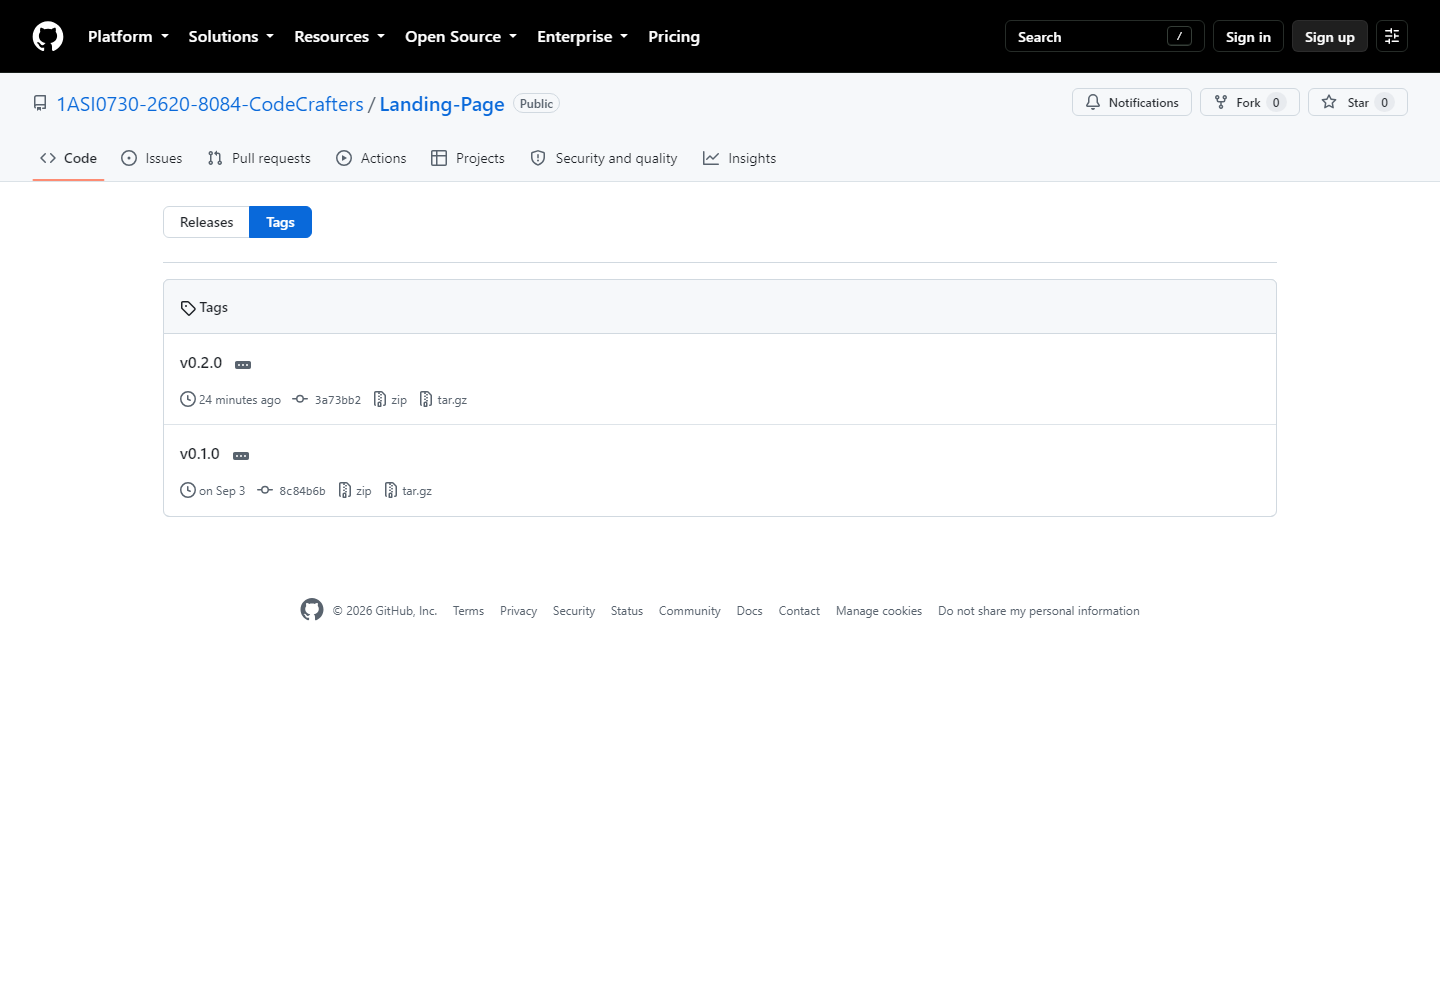
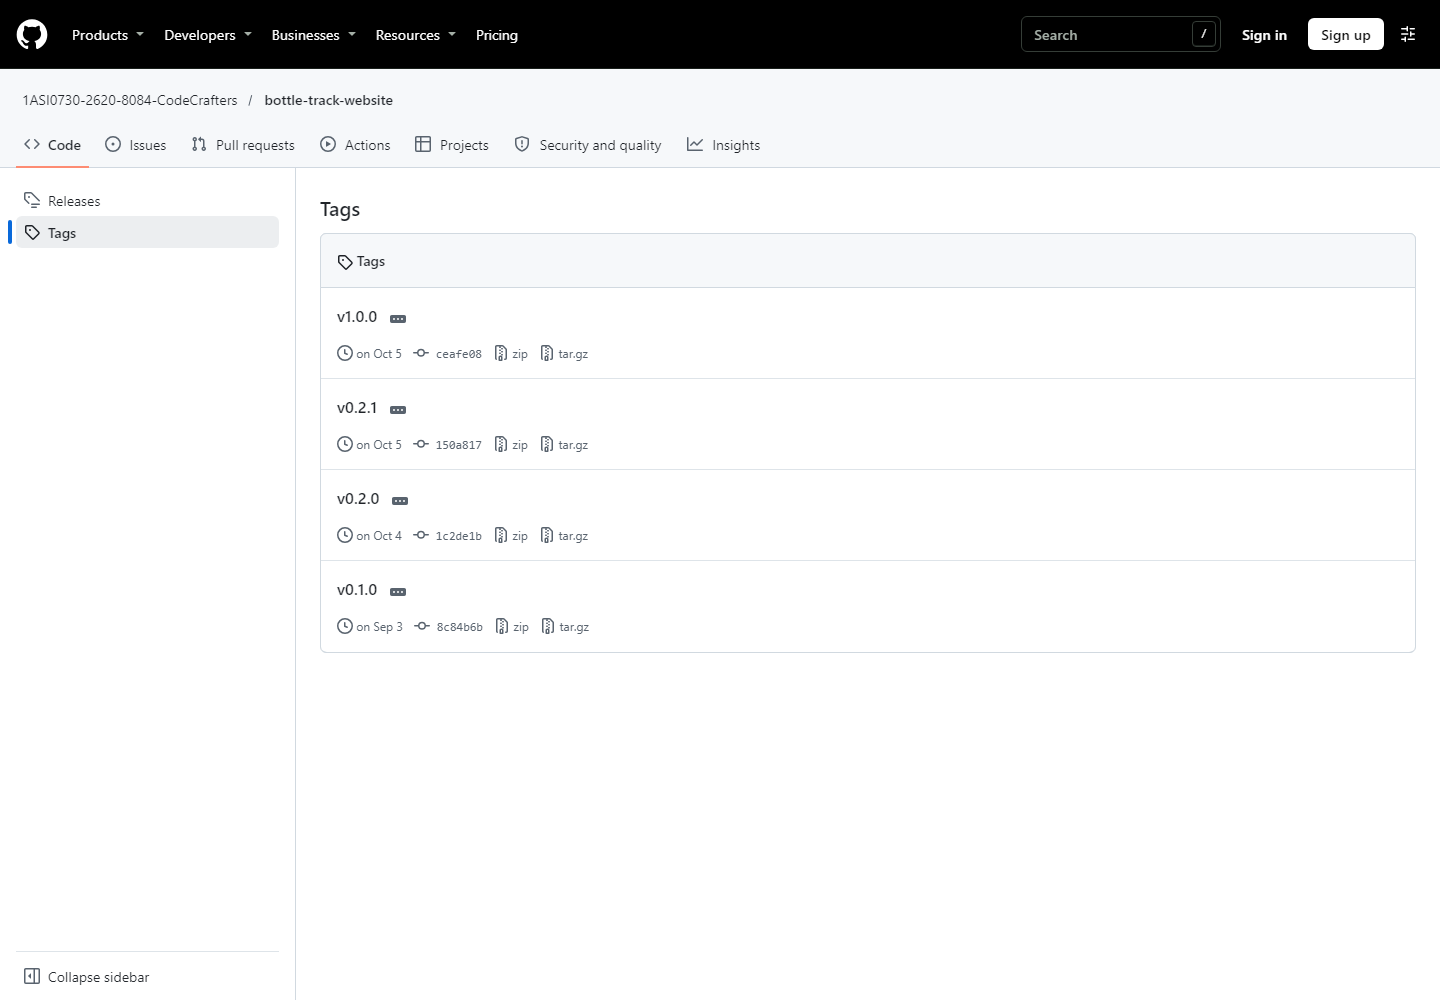
docs(report): update tools, conventions and deployment configuration

diff --git a/report/50-chapter-5-product-implementation-validation-and-deployment.md b/report/50-chapter-5-product-implementation-validation-and-deployment.md
@@ -8,7 +8,7 @@
 
 ## 5.1. Software Configuration Management.
 
-En esta sección el equipo establece las decisiones y convenciones que permiten mantener la consistencia del producto durante todo el ciclo de vida. Estas decisiones son de cumplimiento obligatorio para los cinco integrantes y se aplican de manera idéntica en los cuatro repositorios del proyecto.
+En esta sección el equipo establece las decisiones y convenciones que permiten mantener la consistencia del producto durante todo el ciclo de vida. Estas decisiones son de cumplimiento obligatorio para todos los integrantes del equipo y se aplican de manera idéntica en los cuatro repositorios del proyecto.
 
 <a id="511-software-development-environment-configuration"></a>
 
@@ -21,7 +21,7 @@ A continuación se indican los productos de software que utiliza el equipo, el p
 | Producto | Propósito | Ruta de referencia |
 | :------- | :-------- | :----------------- |
 | Trello | Product Backlog y Sprint Backlog del equipo, con el tablero público de control de estado. | https://trello.com |
-| Microsoft Teams | Reuniones de Sprint Planning, Review y Retrospective del equipo. | https://www.microsoft.com/microsoft-teams |
+| Discord | Reuniones de Sprint Planning, Review y Retrospective del equipo. | https://discord.com |
 | Microsoft Stream | Publicación de los videos de entrevistas y de exposición con enlace privado. | https://www.microsoft.com/microsoft-stream |
 
 **Requirements Management**
@@ -36,10 +36,10 @@ A continuación se indican los productos de software que utiliza el equipo, el p
 | Producto | Propósito | Ruta de referencia |
 | :------- | :-------- | :----------------- |
 | Figma | Wireframes, Mock-ups y Prototypes del Landing Page y de la Web Application. | https://www.figma.com |
-| FigJam | Wireflow Diagrams y User Flow Diagrams. | https://www.figma.com/figjam |
-| Structurizr | Diagramas de arquitectura de software bajo el C4 Model. | https://structurizr.com |
-| LucidChart | Diagramas UML de clases. | https://www.lucidchart.com |
-| ERDPlus | Diagramas de base de datos. | https://erdplus.com |
+| FigJam | Wireflow Diagrams. | https://www.figma.com/figjam |
+| Graphviz | User Flow Diagrams elaborados como Diagram-as-Code en lenguaje DOT. | https://graphviz.org |
+| Structurizr DSL y Structurizr Playground | Diagramas de arquitectura de software bajo el C4 Model. | https://playground.structurizr.com |
+| PlantUML | Diagramas UML de clases y diagrama de base de datos, elaborados como Diagram-as-Code. | https://plantuml.com |
 
 **Software Development**
 
@@ -65,6 +65,7 @@ A continuación se indican los productos de software que utiliza el equipo, el p
 | :------- | :-------- | :----------------- |
 | GitHub | Alojamiento del informe en formato Markdown y de los repositorios de código. | https://github.com |
 | Swagger / OpenAPI | Documentación de los endpoints de los Web Services. | https://swagger.io |
+| Pandoc y XeLaTeX (MiKTeX) | Generación del informe en PDF a partir de los archivos Markdown. | https://pandoc.org |
 
 <a id="512-source-code-management"></a>
 
@@ -74,10 +75,12 @@ El seguimiento de modificaciones se realiza con Git, gestionado desde GitHub. El
 
 | Repositorio | Contenido | URL |
 | :---------- | :-------- | :-- |
-| Landing-Page | Sitio web estático en HTML5, CSS3 y JavaScript. | https://github.com/1ASI0730-2620-8084-CodeCrafters/Landing-Page |
+| bottle-track-website | Landing Page: sitio web estático en HTML5, CSS3 y JavaScript. | https://github.com/1ASI0730-2620-8084-CodeCrafters/bottle-track-website |
 | Frontend-Web-Aplication | Aplicación web desarrollada con Vue Framework. | https://github.com/1ASI0730-2620-8084-CodeCrafters/Frontend-Web-Aplication |
-| Web-Services | RESTful API en ASP.NET Core, incluyendo las pruebas unitarias y de aceptación. | https://github.com/1ASI0730-2620-8084-CodeCrafters/Web-Services |
-| Report | Informe del proyecto en formato Markdown. | https://github.com/1ASI0730-2620-8084-CodeCrafters/Report |
+| bottle-track-web-services | RESTful API en ASP.NET Core, con sus pruebas unitarias y de integración. | https://github.com/1ASI0730-2620-8084-CodeCrafters/bottle-track-web-services |
+| bottle-track-report | Informe del proyecto en formato Markdown, con su compilación a PDF. | https://github.com/1ASI0730-2620-8084-CodeCrafters/bottle-track-report |
+
+Los repositorios del Landing Page, de los Web Services y del informe se renombraron en el Sprint 3 (antes `Landing-Page`, `Web-Services` y `Report`) para seguir una convención única en kebab-case. GitHub redirige los enlaces anteriores, por lo que las referencias históricas de los Sprints 1 y 2 conservan su validez.
 
 **GitFlow como Workflow de control de versiones**
 
@@ -90,12 +93,16 @@ El equipo aplica GitFlow según el modelo descrito por Vincent Driessen. La estr
 | `feature/<nombre>` | Una rama por cada feature. Concentra el trabajo de una funcionalidad hasta que queda terminada. | `develop` | `develop` |
 | `release/<versión>` | Preparación de una versión: correcciones finales y ajuste del número de versión. | `develop` | `main` y `develop` |
 | `hotfix/<nombre>` | Corrección urgente sobre una versión ya publicada. | `main` | `main` y `develop` |
+| `fix/<nombre>` | Corrección de un defecto detectado en `develop`, antes de un release. | `develop` | `develop` |
+| `chore/<nombre>` | Tareas de mantenimiento del repositorio, como sincronizar `main` con `develop`. | `develop` | `develop` |
 
 Las convenciones de nomenclatura de las ramas son las siguientes, empleando siempre kebab-case y el idioma inglés:
 
 | Tipo de rama | Convención | Ejemplo |
 | :----------- | :--------- | :------ |
 | Feature | `feature/<nombre-de-la-funcionalidad>` | `feature/design-system` |
+| Fix | `fix/<nombre-de-la-corrección>` | `fix/report-incident-diagrams` |
+| Chore | `chore/<nombre-de-la-tarea>` | `chore/sync-main-into-develop` |
 | Release | `release/<major>.<minor>.<patch>` | `release/1.0.0` |
 | Hotfix | `hotfix/<nombre-de-la-corrección>` | `hotfix/broken-segment-link` |
 
@@ -147,10 +154,11 @@ Toda la nomenclatura de elementos del código se escribe en inglés, sin excepci
 | Variables CSS | kebab-case con doble guion inicial | `--primary-dark` |
 | Variables y funciones de JavaScript | camelCase | `resolveInitialLanguage` |
 | Constantes de JavaScript | SCREAMING_SNAKE_CASE | `DEFAULT_LANGUAGE` |
-| Componentes de Vue | PascalCase | `RouteMonitorCard.vue` |
-| Clases, métodos y propiedades públicas de C# | PascalCase | `ShipmentTrackingService` |
-| Campos privados de C# | camelCase con guion bajo inicial | `_shipmentRepository` |
-| Endpoints de la API | kebab-case en plural | `/api/v1/shipments`, `/api/v1/incidents` |
+| Archivos de componentes de Vue | kebab-case | `vehicle-list.vue`, `driver-form-dialog.vue` |
+| Clases de JavaScript | PascalCase | `TransportOperationAssembler` |
+| Clases, métodos y propiedades públicas de C# | PascalCase | `TransportOperationCommandService`, `AddStop` |
+| Parámetros y variables locales de C# | camelCase | `transportOperationRepository` |
+| Endpoints de la API | kebab-case en plural | `/api/v1/transport-operations`, `/api/v1/incidents` |
 | Tablas y columnas de base de datos | snake_case | `delivery_stops`, `reported_at` |
 
 **Convenciones adicionales adoptadas por el equipo**
@@ -163,7 +171,7 @@ El código se escribe sin comentarios: la legibilidad se sostiene con nombres au
 
 **Landing Page**
 
-El Landing Page se publica en Netlify a partir de la rama `main` del repositorio `Landing-Page`, mediante la integración de Netlify con GitHub. Durante el Sprint 1 se publicó en GitHub Pages; desde el Sprint 2 se utiliza Netlify, que vuelve a publicar el sitio de forma automática ante cada integración en `main`. Al tratarse de un sitio web estático sin proceso de construcción, no requiere un comando de build. Los pasos son los siguientes:
+El Landing Page se publica en Netlify a partir de la rama `main` del repositorio `bottle-track-website`, mediante la integración de Netlify con GitHub. Durante el Sprint 1 se publicó en GitHub Pages; desde el Sprint 2 se utiliza Netlify, que vuelve a publicar el sitio de forma automática ante cada integración en `main`. Al tratarse de un sitio web estático sin proceso de construcción, no requiere un comando de build. Los pasos son los siguientes:
 
 1. Integrar en `develop` las ramas de feature terminadas mediante un merge sin avance rápido.
 2. Crear la rama `release/<versión>` a partir de `develop`.
@@ -177,14 +185,21 @@ La aplicación web se publica en Vercel a partir de la rama `main` del repositor
 
 1. Importar el repositorio desde el panel de Vercel.
 2. Configurar el comando de construcción y el directorio de salida que corresponden a un proyecto de Vue.
-3. Registrar en el archivo `.env.production` la URL base del API. Mientras no existan los Web Services, apunta al fake API publicado en Beeceptor.
+3. Registrar en el archivo `.env.production` la URL base del API. Mientras los Web Services no estén publicados, apunta al fake API publicado en Beeceptor. En el entorno de desarrollo (`.env.development`) la aplicación ya consume los Web Services locales en `http://localhost:5280/api/v1`.
 4. Confirmar la publicación automática que Vercel ejecuta ante cada integración en `main`.
 
 Una vez publicada la aplicación, la URL definitiva se registra en los llamados a la acción de cada segmento objetivo del Landing Page, de modo que ambos productos queden enlazados.
 
 **Web Services**
 
-Los Web Services se publicarán en un proveedor de nube junto con la base de datos MySQL. La configuración correspondiente se documentará en la entrega en la que se despliegue la primera versión de este producto.
+La primera versión de los Web Services se implementó en el Sprint 3 y se ejecuta en el entorno local junto con MySQL. Su publicación en un proveedor de nube está preparada, pero todavía no se ha realizado:
+
+1. El repositorio incluye un `Dockerfile` que compila la solución y expone el servicio en el puerto 8080.
+2. El archivo `appsettings.Production.json` toma la cadena de conexión de las variables de entorno `DATABASE_URL`, `DATABASE_USER`, `DATABASE_PASSWORD` y `DATABASE_SCHEMA`, de modo que ninguna credencial se guarda en el repositorio.
+3. La lista de orígenes permitidos por CORS debe registrar la URL de la Web Application publicada en Vercel.
+4. Las migraciones de Entity Framework Core crean las doce tablas al iniciar el servicio.
+
+El proveedor de nube y la instancia de MySQL se seleccionarán y documentarán en el Sprint en el que se realice la publicación.
 
 
 <a id="52-landing-page-services-applications-implementation"></a>
@@ -322,7 +337,7 @@ Al cierre del Sprint 1 el Landing Page se encuentra publicado en https://1asi073
 
 #### 5.2.1.6. Services Documentation Evidence for Sprint Review.
 
-El alcance del Sprint 1 corresponde al Landing Page, que es un sitio estático y no expone endpoints. La documentación de los servicios con OpenAPI se incorpora en el Sprint en el que se implementa la primera versión del Backend API, de acuerdo con la Technical Story TS13.
+El alcance del Sprint 1 corresponde al Landing Page, que es un sitio estático y no expone endpoints. La documentación de los servicios con OpenAPI se incorporó en el Sprint 3 (sección 5.2.3.6), en el que se implementa la primera versión del Backend API, de acuerdo con la Technical Story TS13.
 
 <a id="52x7-software-deployment-evidence-for-sprint-review"></a>
 
@@ -734,7 +749,7 @@ A partir del Sprint 2 el Landing Page se publica en Netlify, que reemplaza a Git
 
 <img src="assets/chapter5/sprint2/github-landing-branches.png" alt="Ramas del repositorio Landing-Page" width="800">
 
-<img src="assets/chapter5/sprint2/github-landing-tags.png" alt="Tags v0.1.0 y v0.2.0 del repositorio Landing-Page" width="800">
+<img src="assets/chapter5/sprint2/github-landing-tags.png" alt="Tags v0.1.0, v0.2.0, v0.2.1 y v1.0.0 del repositorio del Landing Page" width="800">
 
 <a id="5228-team-collaboration-insights-during-sprint"></a>
 
